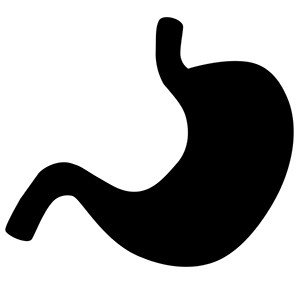
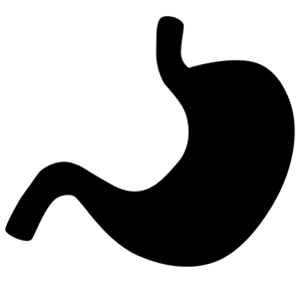
Cleans up styles. Adds comments to HTML. fixes stomach image

diff --git a/styles.css b/styles.css
@@ -10,7 +10,6 @@ You will find this is far easier than the opposite task of using CSS to cram you
  LOADS IN A NICE RESET TO ENSURE ALL BROWSERS HAVE THE SAME BASE STYLES
 *********************************************************************/
 @import url('https://cdnjs.cloudflare.com/ajax/libs/normalize/7.0.0/normalize.min.css');
-
 /*********************************************************************
   YOUR MOBILE/BASE STYLES GO HERE
 *********************************************************************/
@@ -18,15 +17,14 @@ You will find this is far easier than the opposite task of using CSS to cram you
     box-sizing: border-box;
 }
 
-html, body {
+body,
+html {
     /* Sets default font-size to 16px, ensuring 1em = 16px; */
-    font-size: 16px
+    font-size: 16px;
 }
-
-.container, .icon-container {
-    max-width: 100%;
-    margin: auto;
-    padding: 10px;
+/* responsive images */
+img {
+    width: 100%;
 }
 
 h1 {
@@ -35,27 +33,36 @@ h1 {
 
 h3 {
     font-size: 2em;
-    color: gray;
+    color    : gray;
 }
 
 h4 {
     text-transform: uppercase;
-    font-size: 1.3em;
-    text-align: center;
+    font-size     : 1.3em;
+    text-align    : center;
 }
 
 h3 {
     padding-left: 10px;
 }
 
-p, figcaption {
+figcaption,
+p {
     line-height: 1.5em;
-    font-size: 1.2em;
+    font-size  : 1.2em;
 }
 
 hr {
-    height: 4px;
+    height    : 4px;
     background: gray;
+}
+
+.container,
+.icon-container {
+    width    : 100%;
+    max-width: 1200px;
+    margin   : 0 auto;
+    padding  : 10px;
 }
 
 .main_img {
@@ -64,33 +71,30 @@ hr {
 
 .head-photo {
     font-size: 1em;
-    color: gray;
-    margin: 5px;
+    color    : gray;
+    margin   : 5px;
 }
 
 .icon-container img {
-    /* width: 300px; */
-    display: block;
-    width: 100%;
+    display  : block;
     max-width: 300px;
-    margin: auto;
+    margin   : auto;
 }
 
 .graphic-text {
     margin: auto;
 }
-
 /*********************************************************************
   YOUR TABLET/DESKTOP STYLES GO HERE
 *********************************************************************/
 @media(min-width: 681px) {
-
     /* Any adjustments for tablets and larger go here.
     Note these styles will be applied to anything 681px or larger -- so tablet AND desktop */
     .icon-container {
         /* Flex box styles go on the flex box element */
-        display: flex;
+        display        : flex;
         justify-content: space-between;
+        align-items    : flex-start;
     }
 
     .graphic {
@@ -106,45 +110,10 @@ hr {
         /* width: 500px; */
     }
 }
-
 /*********************************************************************
   YOUR DESKTOP-ONLY STYLES GO HERE
 *********************************************************************/
 @media(min-width: 900px) {
-
     /* Any adjustments for desktop and larger go here.
     Note these styles will be applied to anything 729px or larger -- so desktop */
-    .container {
-        max-width: 60%;
-        margin: auto;
-    }
-
-    /* .top-photo {
-        margin: auto;
-    } */
-    .main_img {
-        max-width: 100%;
-    }
-
-    .icon-container {
-        display: flex;
-        flex-direction: row;
-        justify-content: space-between;
-        align-content: flex-start;
-    }
-
-    .graphic {
-        display: flex;
-        flex-direction: column;
-        justify-content: center;
-        align-content: center;
-        /* There are many ways to handle sizing, but flex-basis is the one that I like best for control.
-     * There are three elements so I made it 30%. With justify content set to space between, the extra 3% per element will go to negative space
-     * serving as gutters */
-        /* font-size: 1.3em; */
-    }
-
-    .icon {
-        flex-basis: 30%;
-    }
 }

diff --git a/index.html b/index.html
@@ -1,29 +1,24 @@
 <!doctype html>
 <!--
    Basic template
--->
+   -->
 <html lang="en">
 
 	<head>
-
 		<!-- Makes the page responsive and scaled to be read easily -->
 		<meta name="viewport" content="width=device-width, initial-scale=1">
-
 		<!-- Links to stylesheet -->
 		<link rel="stylesheet" type="text/css" href="styles.css">
 		<!-- Remember to update page title -->
 		<title>Three Tips to Care for Vital Organs</title>
-
 	</head>
 
 	<body>
 		<!-- All content goes here -->
-
 		<div class="container">
 			<h1>
 				Three Tips to Care for Vital Organs
 			</h1>
-
 			<div class="top-photo">
 				<img class="main_img" src="images/taichi.png">
 				<figcaption class="head-photo">Quisque volutpat condimentum velit litora torquent per conubia nostra. <span class="credit">Credit: Augustus Cesear</span></figcaption>
@@ -31,51 +26,42 @@
 			<!-- <div class="container"> -->
 			<p class="intro">Quisque cursus, metus vitae pharetra auctor, sem massa mattis sem, at interdum magna augue eget diam. Vestibulum ante ipsum primis in faucibus orci luctus et ultrices posuere cubilia Curae; Morbi lacinia molestie dui. Praesent
 				blandit dolor. Sed non
-				quam. </p>
+				quam.
+			</p>
 			<p>
 				In vel mi sit amet augue congue elementum. Morbi in ipsum sit amet pede facilisis laoreet. Donec lacus nunc, viverra nec, blandit vel, egestas et, augue. Vestibulum tincidunt malesuada tellus. Ut ultrices ultrices enim. Curabitur sit
 				amet mauris.
 			</p>
-
 		</div>
 		<h3>Immortality and Health Are Compatible </h3>
+		<!-- flex box on tablet and desktop -->
 		<div class="icon-container">
 
-
+			<!-- each graphic is actually multiple elements grouped in a div -->
 			<div class="graphic" id="icon1">
-
 				<div class="icon">
 					<h4>Water Kidneys</h4>
 					<img src="images/kidneys.png">
-
 					<figcaption class="graphic-text">Lorem ipsum dolor sit amet, consectetur adipiscing elit. Integer nec odio. Praesent libero. Sed cursus ante dapibus diam. Sed nisi. Nulla quis sem at nibh elementum imperdiet. Duis sagittis ipsum. Praesent
-						mauris.Fusce nec tellus sed augue semper. </figcaption>
+						mauris.Fusce nec tellus sed augue semper.
+					</figcaption>
 				</div>
 			</div>
-
 			<div class="graphic" id="icon2">
-
 				<div class="icon">
 					<h4>Belly 20% Empty</h4>
 					<img src="images/stomach.png">
-
 					<figcaption class="graphic-text">Lorem ipsum dolor sit amet, consectetur adipiscing elit. Integer nec odio. Praesent libero. </figcaption>
 				</div>
 			</div>
-
 			<div class="graphic" id="icon3">
-
 				<div class="icon">
 					<h4>Take in Fresh Air</h4>
 					<img src="images/lungs.png">
-
 					<figcaption class="graphic-text">Lorem ipsum dolor sit amet, consectetur adipiscing elit. Integer nec odio. Praesent libero. Sed cursus ante dapibus diam. Sed nisi. Nulla quis sem at nibh elementum imperdiet.</figcaption>
 				</div>
 			</div>
-
 		</div>
-
-
 	</body>
 
 </html>
